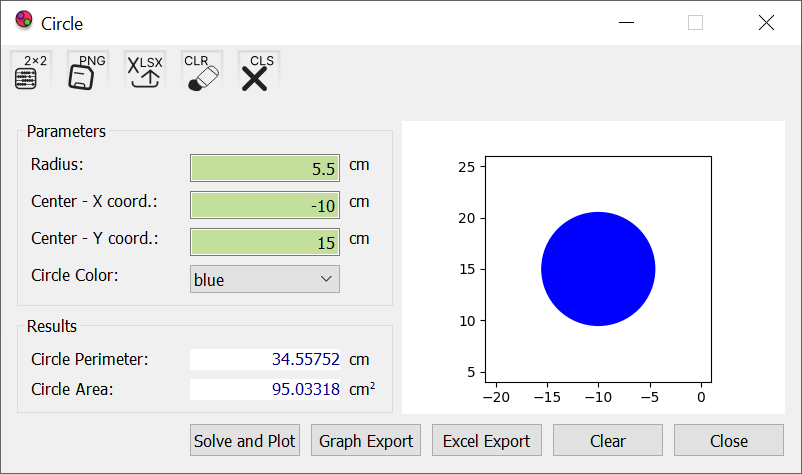
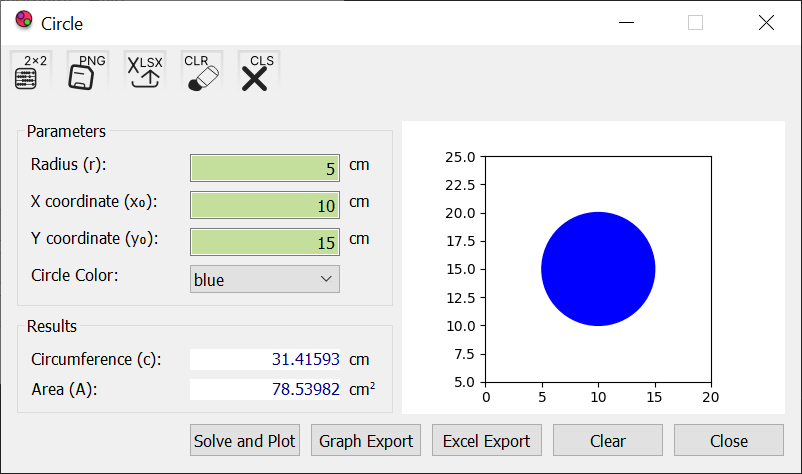
Circle Calculation improvement

diff --git a/Circle.py b/Circle.py
@@ -3,6 +3,7 @@ import os
 from PyQt5.QtWidgets import (
     QAction, 
     QComboBox,
+    QFileDialog,
     QGridLayout,
     QGroupBox,
     QHBoxLayout,
@@ -38,49 +39,61 @@ import Canvas
 import CheckCreateDirectory
 
 class WindowCircle(QWidget):
+    """
+    This class represents the main window of the circle calculation application.
+
+    It handles the user interface elements, input validation, calculation logic,
+    and interaction with external libraries for plotting and data export.
+    """
+
     def __init__(self):
         super().__init__()
         self.initUI()
 
     def initUI(self):
-        
+        """
+        Initializes the user interface of the window.
+
+        This method sets up the window layout, widgets, and their connections.
+        """
+        # Create a Matplotlib canvas for plotting the circle
         sc = Canvas.MplCanvas(self, width=6, height=6, dpi=100)
         self.setWindowIcon(QIcon('D:\\Programovani\\Python\\naucse\\PyQtMathApp\\Shape_ico.png'))
 
-        # button for calculation a plot 
+        # Button to solve and plot the circle
         self.buttonplotCircle = QPushButton('Solve and Plot')
         self.buttonplotCircle.clicked.connect(lambda: self.plot_circle(sc, self.combo_color.currentText()))
         self.buttonplotCircle.setToolTip("Solve and plot picture")
 
-         # button for export to Excel 
+        # Button to export the graph as an image
         self.buttonPicture = QPushButton('Graph Export')
         self.buttonPicture.clicked.connect(lambda: self.save_fig())
         self.buttonPicture.setEnabled(False)
         
-        # button for export to Excel 
+        # Button to export data to Excel 
         self.buttonExport = QPushButton('Excel Export')
         self.buttonExport.clicked.connect(lambda: self.export_excel())
         self.buttonExport.setEnabled(False)
                 
-        # button for clear inputs, results and graph
+        # Button to clear all inputs, results, and the graph
         self.buttonClear = QPushButton('Clear')
         self.buttonClear.clicked.connect(lambda: self.clear_inputs(sc))
         self.buttonClear.setEnabled(False)
         
-        # button for close window
+        # Button to close the window
         self.buttonClose = QPushButton('Close')
         self.buttonClose.clicked.connect(self.close)
 
-        # top toolbar
+        # Create a toolbar for frequently used actions
         toolbar = QToolBar()
         toolbar.setIconSize(QtCore.QSize(50, 50))
 
-        # size of window
+        # Set the window size
         self.setFixedSize(800, 428)
 
         hbox1 = QHBoxLayout()
         
-        # horizontal box layout for buttons in the bottom
+        
         hbox2 = QHBoxLayout()
         hbox2.addStretch(1)
         hbox2.addWidget(self.buttonplotCircle)
@@ -89,22 +102,21 @@ class WindowCircle(QWidget):
         hbox2.addWidget(self.buttonClear)
         hbox2.addWidget(self.buttonClose)
 
-        # layout and group box for input parameters
+        # Create layout and group box for input parameters
         layout_param = QGridLayout()
         groupBoxParameters = QGroupBox("Parameters")
         groupBoxParameters.setLayout(layout_param)
 
-        # layout and group box for results
+        # Create layout and group box for results
         layout_res = QGridLayout()
         groupBoxResults = QGroupBox("Results")
         groupBoxResults.setLayout(layout_res)
 
-        # vertical box layout for groupboxes - input and results
         vbox1 = QVBoxLayout()
         vbox1.addWidget(groupBoxParameters)
         vbox1.addWidget(groupBoxResults)
 
-        # horizontal box layout for vbox1 with groupboxes and graph
+        # Create horizontal layout for the graph and the group boxes with input/results
         hbox1.addLayout(vbox1)
         hbox1.addWidget(sc)
 
@@ -125,8 +137,8 @@ class WindowCircle(QWidget):
         validator_positive = QRegExpValidator(QtCore.QRegExp(r'([1-9][0-9]{0,6})|([0])|([0][.][1-9][0-9]{0,6})|([1-9][0-9]{0,6}[.][1-9][0-9]{0,6})'))
         validator_double = QRegExpValidator(QtCore.QRegExp(r'([-][1-9][0-9]{0,6})|([-][1-9][0-9]{0,6}[.])|([-][0][.][0-9]{1,6})|([-][1-9]{1,6}[.][0-9]{1,6})|([1-9][0-9]{0,6})|([1-9][0-9]{0,6}[.])|([0][.][0-9]{1,6})|([1-9]{1,6}[.][0-9]{1,6})'))
 
-
-        self.label_radius = QLabel("Radius:")
+        # Create input field for radius
+        self.label_radius = QLabel("Radius (r):")
         self.label_radius.setAlignment(QtCore.Qt.AlignLeft)
         self.label_radius.setFixedWidth(150)
         layout_param.addWidget(self.label_radius,0,0)
@@ -142,8 +154,8 @@ class WindowCircle(QWidget):
         self.label_dim_radius.setFixedWidth(30)
         layout_param.addWidget(self.label_dim_radius,0,2)
 
-
-        self.label_centerX = QLabel("Center - X coord.:")
+        # Create input field for center coordinate x₀
+        self.label_centerX = QLabel("X coordinate (x₀):")
         self.label_centerX.setAlignment(QtCore.Qt.AlignLeft)
         self.label_centerX.setFixedWidth(150)
         layout_param.addWidget(self.label_centerX,1,0)
@@ -159,7 +171,8 @@ class WindowCircle(QWidget):
         self.label_dim_x.setFixedWidth(30)
         layout_param.addWidget(self.label_dim_x,1,2)
 
-        self.label_centerY = QLabel("Center - Y coord.:")
+        # Create input field for center coordinate y₀
+        self.label_centerY = QLabel("Y coordinate (y₀):")
         self.label_centerY.setAlignment(QtCore.Qt.AlignLeft)
         self.label_centerY.setFixedWidth(150)
         layout_param.addWidget(self.label_centerY,2,0)
@@ -181,7 +194,7 @@ class WindowCircle(QWidget):
         self.label_combo_color.setFixedWidth(150)
         layout_param.addWidget(self.label_combo_color,3,0)
 
-        
+        # Create combo for color
         self.combo_color = QComboBox(self)
         colors = ["black", 
                   "blue", 
@@ -199,8 +212,8 @@ class WindowCircle(QWidget):
         self.combo_color.setFixedHeight(28)
         layout_param.addWidget(self.combo_color,3,1)
         
-
-        self.label_perimeter = QLabel("Circle Perimeter:")
+        # Create field for result - Circumference (c)
+        self.label_perimeter = QLabel("Circumference (c):")
         self.label_perimeter.setAlignment(QtCore.Qt.AlignLeft)
         self.label_perimeter.setFixedWidth(150)
         layout_res.addWidget(self.label_perimeter,0,0)
@@ -216,14 +229,13 @@ class WindowCircle(QWidget):
         self.label_dim_per.setFixedWidth(30)
         layout_res.addWidget(self.label_dim_per,0,2)
 
-
-        self.label_area = QLabel("Circle Area:")
+        # Create field for result - Area (A)
+        self.label_area = QLabel("Area (A):")
         self.label_area.setAlignment(QtCore.Qt.AlignLeft)
         self.label_area.setFixedWidth(150)
         layout_res.addWidget(self.label_area,1,0)
 
         self.label_res_area = QLabel('0.0')
-        # self.label_res_area.setFont(QFont('Arial', 12))
         self.label_res_area.setStyleSheet("background-color : white; color : darkblue")
         self.label_res_area.setAlignment(QtCore.Qt.AlignRight)
         self.label_res_area.setFixedWidth(150)
@@ -234,16 +246,7 @@ class WindowCircle(QWidget):
         self.label_dim_area.setFixedWidth(30)
         layout_res.addWidget(self.label_dim_area,1,2)
 
-        self.edit_radius.textChanged.connect(self.check_state_rad_and_set_color)
-        self.edit_radius.textChanged.emit(self.edit_radius.text())
-
-        self.edit_centerX.textChanged.connect(self.check_state_and_set_color)
-        self.edit_centerX.textChanged.emit(self.edit_centerX.text())
-
-        self.edit_centerY.textChanged.connect(self.check_state_and_set_color)
-        self.edit_centerY.textChanged.emit(self.edit_centerY.text())
-
-
+        
         # Solve and plot picture - button in the top toolbar
         self.exportPictAction = QAction(self)
         self.exportPictAction.setToolTip("Solve and plot picture")
@@ -282,6 +285,20 @@ class WindowCircle(QWidget):
         self.closeAction.setIcon(QIcon('CloseAppIcon.svg'))
         self.closeAction.triggered.connect(self.close)
         toolbar.addAction(self.closeAction)
+
+        self.edit_radius.textChanged.connect(self.check_state_rad_and_set_color)
+        self.edit_radius.textChanged.connect(lambda: self.clear_results(sc))
+        self.edit_radius.textChanged.emit(self.edit_radius.text())
+
+        self.edit_centerX.textChanged.connect(self.check_state_and_set_color)
+        self.edit_centerX.textChanged.connect(lambda: self.clear_results(sc))
+        self.edit_centerX.textChanged.emit(self.edit_centerX.text())
+        
+        self.edit_centerY.textChanged.connect(self.check_state_and_set_color)
+        self.edit_centerX.textChanged.connect(lambda: self.clear_results(sc))
+        self.edit_centerY.textChanged.emit(self.edit_centerY.text())
+
+        self.combo_color.currentIndexChanged.connect(lambda: self.clear_results(sc))
 
 
     def plot_circle(self, circle_plot, circle_color):
@@ -325,7 +342,7 @@ class WindowCircle(QWidget):
 
             self.fig = circle_plot.figure
             
-            self.save_fig()
+            # self.save_fig()
 
             self.calculate_circle()
             self.clearAction.setEnabled(True)
@@ -336,7 +353,21 @@ class WindowCircle(QWidget):
             self.buttonExport.setEnabled(True)
 
     def save_fig(self):
-        self.fig.savefig('.\\Results\\circle_plot.png')
+        """
+        Saves the current figure as a PNG image.
+
+        This method prompts the user to select a file name and location to save the
+        figure as a PNG image.
+        """
+        # self.fig.savefig('.\\Results\\circle_plot.png')
+        file_name, _ = QFileDialog.getSaveFileName(self, 'Save Figure', os.path.join(os.getcwd(), 'circle.png'), 'PNG (*.png)')
+
+        if file_name:
+            try:
+                self.fig.savefig(file_name)
+                QMessageBox.information(self, 'Success', 'Figure saved successfully.')
+            except Exception as e:
+                QMessageBox.warning(self, 'Error', f'An error occurred while saving the figure: {e}')
 
     def calculate_circle(self):
 
@@ -350,11 +381,43 @@ class WindowCircle(QWidget):
 
 
     def clear_inputs(self, sc):
+        """
+        Clears all inputs, results, and the graph.
+
+        This method clears the text in the radius, x coordinate, and y coordinate
+        fields, as well as the result fields for diameter, circumference, and area.
+        It also clears the plot on the Matplotlib canvas.
+
+        Args:
+            sc: The Matplotlib canvas object used for plotting.
+        """
         sc.axes.cla()
         sc.draw()
         self.edit_radius.clear()
         self.edit_centerX.clear()
         self.edit_centerY.clear()
+        self.label_res_area.setText("0.0")
+        self.label_res_perimeter.setText("0.0")
+        self.clearAction.setEnabled(False)
+        self.exportPictAction.setEnabled(False)
+        self.buttonPicture.setEnabled(False)
+        self.exportXlsxAction.setEnabled(False)
+        self.buttonExport.setEnabled(False)
+        self.buttonClear.setEnabled(False)
+
+    def clear_results(self, sc):
+        """
+        Clears all inputs, results, and the graph.
+
+        This method clears the text in the radius, x coordinate, and y coordinate
+        fields, as well as the result fields for diameter, circumference, and area.
+        It also clears the plot on the Matplotlib canvas.
+
+        Args:
+            sc: The Matplotlib canvas object used for plotting.
+        """
+        sc.axes.cla()
+        sc.draw()
         self.label_res_area.setText("0.0")
         self.label_res_perimeter.setText("0.0")
         self.clearAction.setEnabled(False)
@@ -410,7 +473,7 @@ class WindowCircle(QWidget):
     def export_excel(self):
 
         path = ".\\Results"
-        CheckCreateDirectory.check_create_dir(path)
+        # CheckCreateDirectory.check_create_dir(path)
 
         # Creating Excel Writer Object from Pandas  
         writer = pd.ExcelWriter('.\\Results\\output_circle.xlsx',engine='xlsxwriter')   
@@ -440,16 +503,28 @@ class WindowCircle(QWidget):
         }
 
         df = pd.DataFrame(data)
-        df.to_excel(writer,sheet_name='Circle Calculation',startrow=0 , startcol=0)
 
-        df_res = pd.DataFrame(results)
-        df_res.to_excel(writer,sheet_name='Circle Calculation',startrow=5 , startcol=0) 
+        file_name, _ = QFileDialog.getSaveFileName(self, 'Export to Excel', os.path.join(os.getcwd(), 'circle.xlsx'), 'Excel (*.xlsx)')
 
-        # Get the xlsxwriter workbook and worksheet objects.
-        workbook  = writer.book
-        worksheet = writer.sheets['Circle Calculation']
+        if file_name:
+            try:
 
-        # Insert an image.
-        worksheet.insert_image('F2', '.\\Results\\circle_plot.png')
+                df.to_excel(writer,sheet_name='Circle Calculation',startrow=0 , startcol=0)
 
-        writer.close()
+                df_res = pd.DataFrame(results)
+                df_res.to_excel(writer,sheet_name='Circle Calculation',startrow=5 , startcol=0) 
+
+                # Get the xlsxwriter workbook and worksheet objects.
+                workbook  = writer.book
+                worksheet = writer.sheets['Circle Calculation']
+
+                # Insert an image.
+                self.fig.savefig('.\\Results\\circle_plot.png')
+                worksheet.insert_image('F2', '.\\Results\\circle_plot.png')
+
+                writer.close()
+
+                QMessageBox.information(self, 'Success', 'Data exported to Excel successfully.')
+
+            except Exception as e:
+                QMessageBox.warning(self, 'Error', f'An error occurred while exporting the data: {e}')
